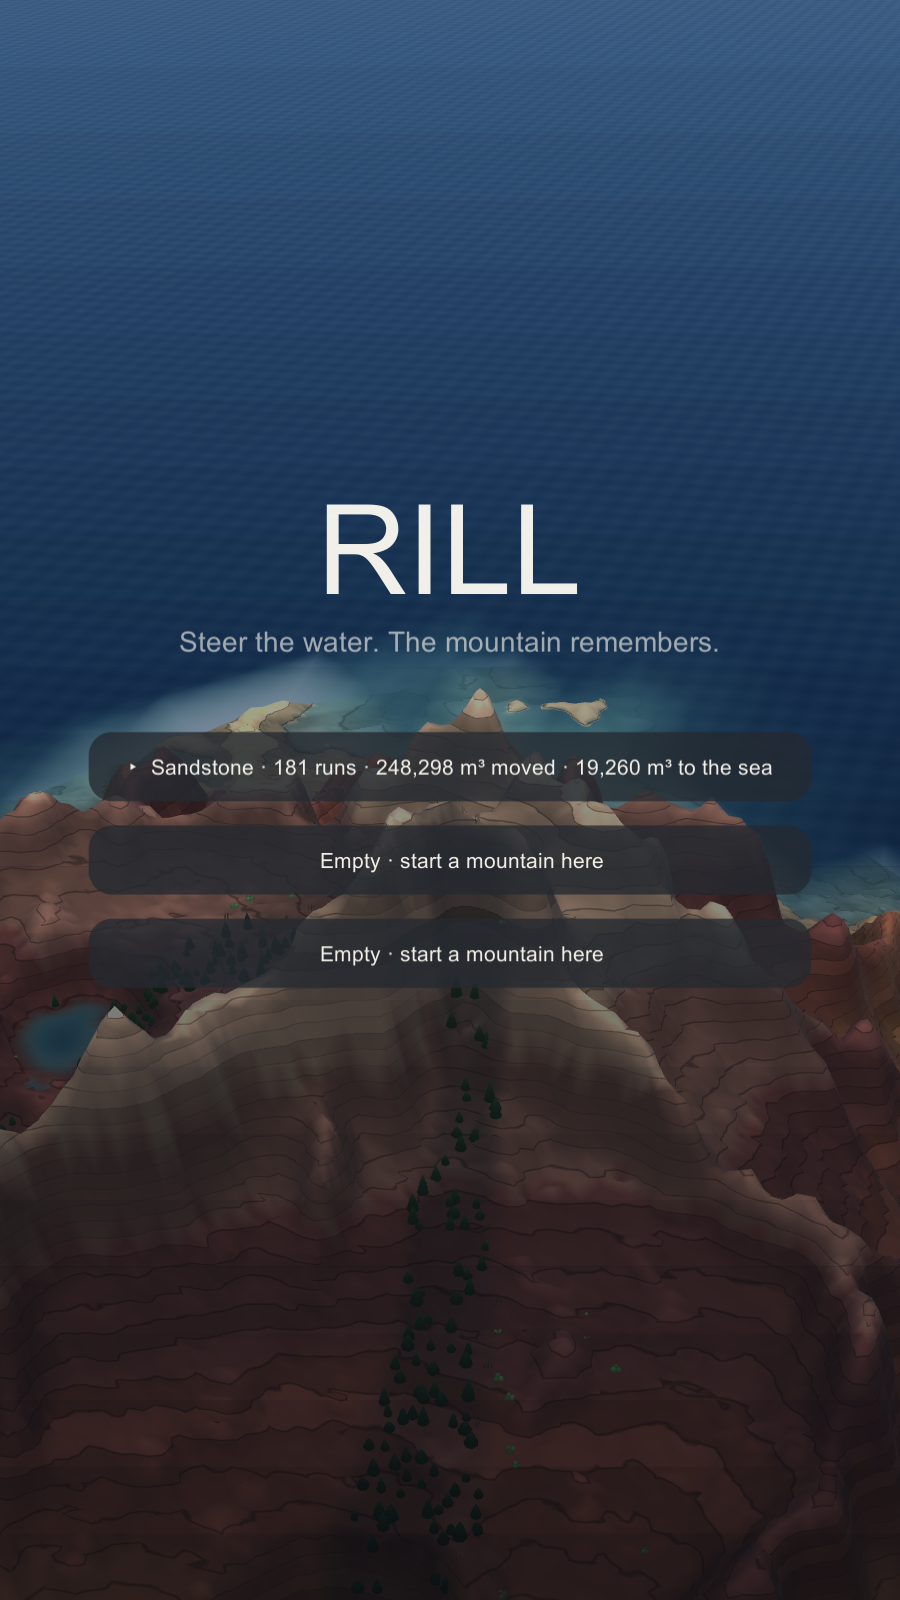
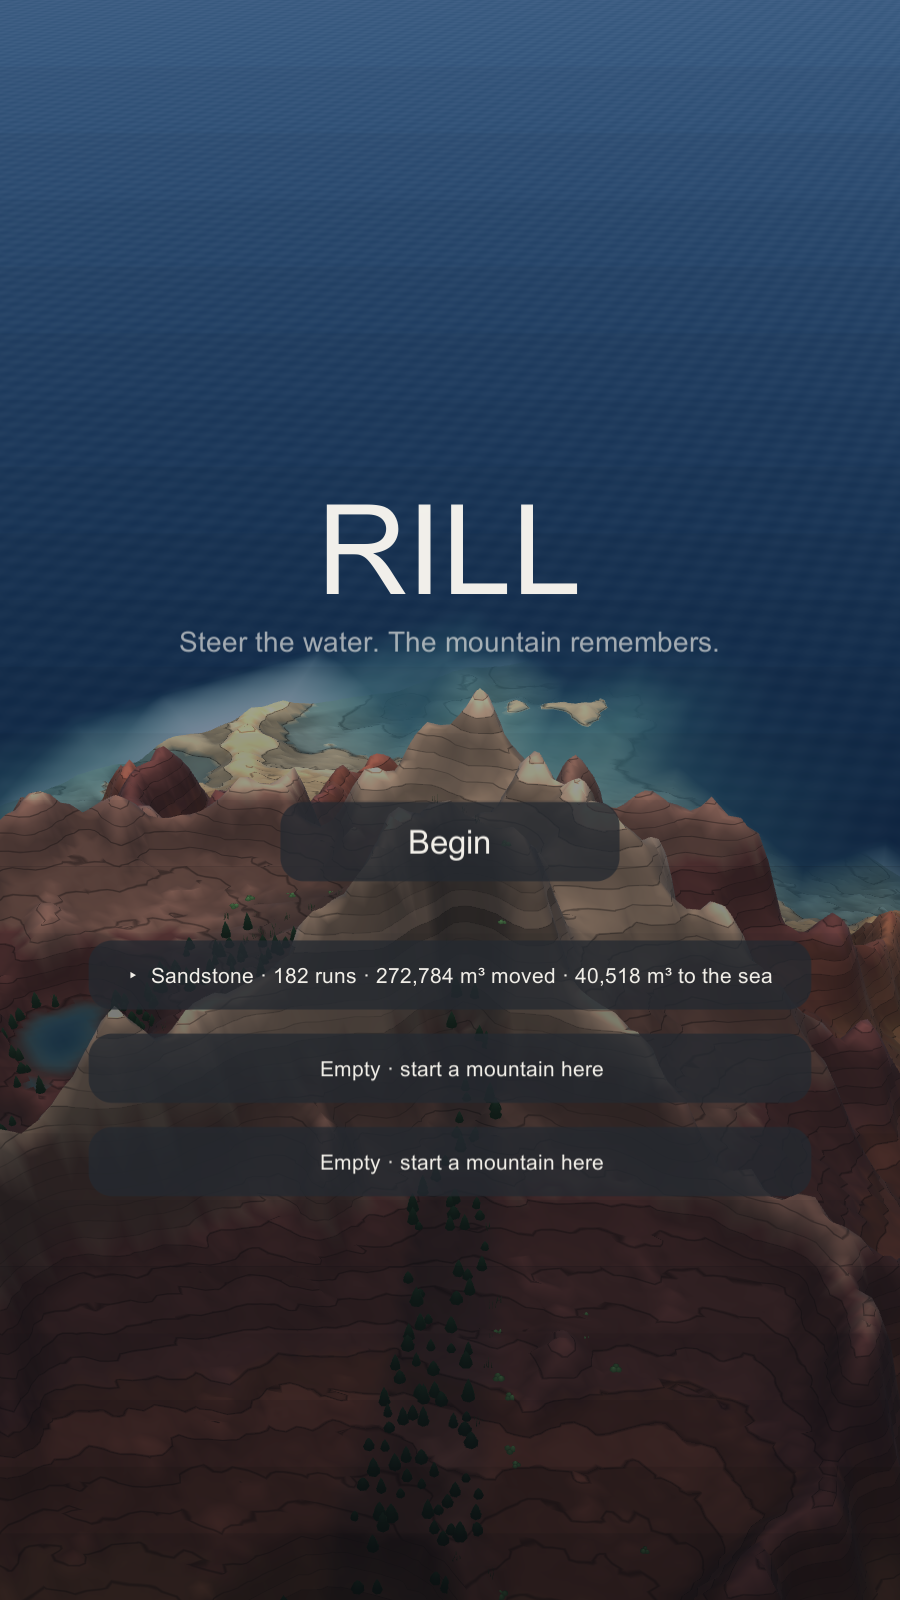
fix(ui): Begin returns to the main screen, with the three mountains below it
Reported: 'the start button is gone'. It was — SetMountains hid it the moment the
three slot rows existed, on the theory that the rows replace it. They do not:
three stat lines are a place to switch mountains, not an obvious way to start
the game. The primary verb keeps a primary button; the rows move below it.

Evidence: docs/shots/ui_home.png — Begin above the three rows, no overlap,
capture asserts still pass (main screen gone once hidden, SetTitleShown
round-trips).

Changed region(s): [[0.0933, 0.4375, 0.9022, 0.75], [0.0, 0.625, 0.0311, 0.6875], [0.8089, 0.7188, 0.84, 0.75]]

diff --git a/Assets/Scripts/UI/HudController.cs b/Assets/Scripts/UI/HudController.cs
@@ -133,8 +133,12 @@ namespace Rill.UI
             _startButton = UIFactory.MakeButton(holder.transform, "Start", "Begin", 40);
             UIFactory.Place(_startButton.gameObject, new Vector2(0.5f, 0.5f), new Vector2(0.5f, 0.5f), new Vector2(0f, -50f), new Vector2(420f, 108f));
 
-            // One row per mountain, stacked under the name. Built once and re-labelled, because a
+            // One row per mountain, stacked BELOW Begin. Built once and re-labelled, because a
             // menu that destroys and rebuilds its own buttons is a menu that loses a click.
+            //
+            // The rows do not replace Begin. They did for one build, and the report was immediate:
+            // "the start button is gone". Three stat lines are a place to switch mountains, not an
+            // obvious way to start the game — the primary verb keeps a primary button.
             _slotButtons = new Button[MountainRoster.Slots];
             _slotLabels = new Text[MountainRoster.Slots];
             for (int i = 0; i < MountainRoster.Slots; i++)
@@ -142,7 +146,7 @@ namespace Rill.UI
                 Text label;
                 var b = UIFactory.MakeButton(holder.transform, "Slot" + i, "", 26, out label);
                 UIFactory.Place(b.gameObject, new Vector2(0.5f, 0.5f), new Vector2(0.5f, 0.5f),
-                                new Vector2(0f, 40f - i * 112f), new Vector2(880f, 96f));
+                                new Vector2(0f, -210f - i * 112f), new Vector2(880f, 96f));
                 _slotButtons[i] = b;
                 _slotLabels[i] = label;
                 int index = i;
@@ -175,8 +179,6 @@ namespace Rill.UI
                 _slotButtons[i].gameObject.SetActive(has);
                 if (has && _slotLabels[i] != null) _slotLabels[i].text = rows[i];
             }
-            // The three rows replace the single Begin button once there is a choice to make.
-            if (_startButton != null) _startButton.gameObject.SetActive(false);
         }
 
         public void SetMountainsVisible(bool visible)
